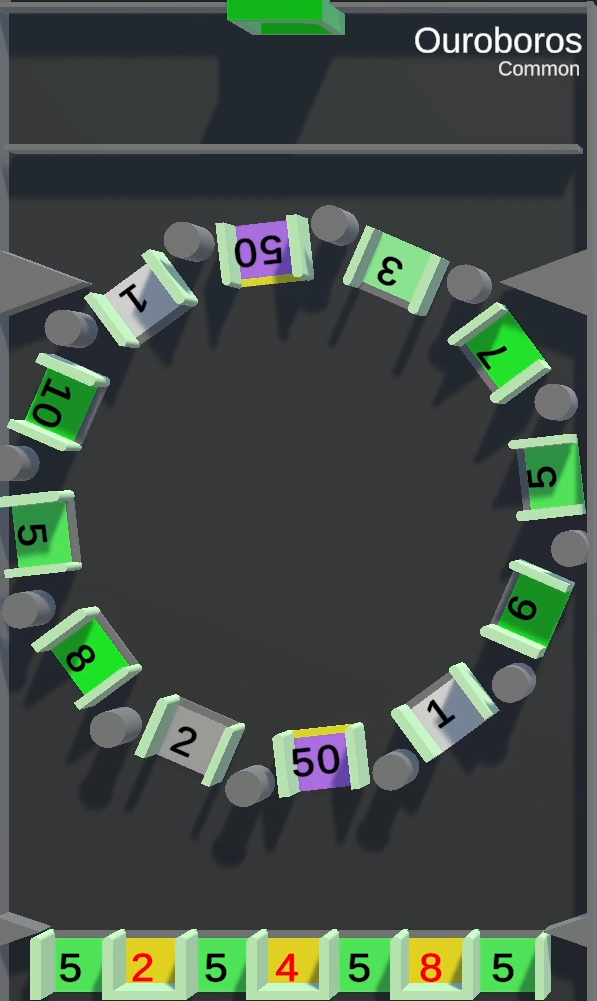
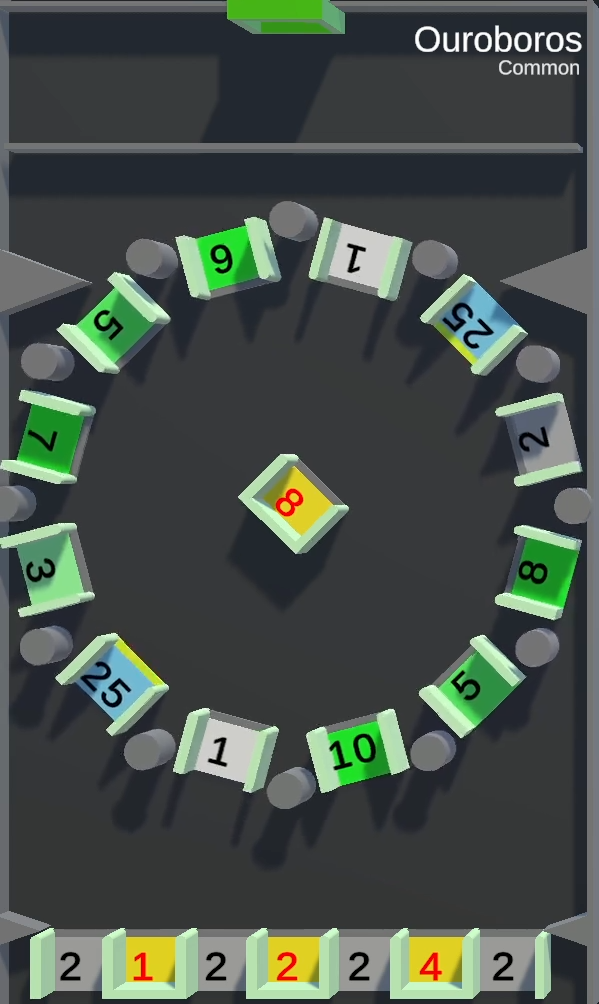
Update images for rebellion and royal execution
Fix outdated rebellion info

Fix outdated rebellion info

Rename speech bubble text color shop to text color shop

Rename speech bubble shop to bubble color shop

Add optimized gif

Revert "Update images for rebellion and royal execution"

This reverts commit 0aa57344b351ae06336b95e7e35bc5890f3c570b.

diff --git a/docs/mechanics/rebellion.md b/docs/mechanics/rebellion.md
@@ -14,9 +14,10 @@ Rebellion is a game mechanic where people can give bits to start a multiplier th
 
 ## How it works
 
-Players can use the [`!rebel [bits]`][rebel-command] command where `[bits]` is a cheer of at least 200 bits to start a rebellion. Once a rebellion starts will a circle appear around the player that started it. This circle will have certain effects on tiles and other mechanics. See the [Effects section](#effects) for details.
+Players can cheer 200 or more bits to start a rebellion. When a rebellion is started will a circle appear around the marble of the player who started it. This circle will have certain effects on tiles and other mechanics tied to the multiplier value displayed. See the [Effects section](#effects) for details.
 
-The default multiplier starts at 2, but increases by one with every addition 100 bits added. In addition is the duration of the rebellion also increased.
+The default multiplier starts at 2, but increases by one with every addition 100 bits added. In addition is the duration of the rebellion also increased.  
+The duration is 40 seconds per dollar worth of bits spent.
 
 ## Effects
 
@@ -31,7 +32,7 @@ The circle around the rebellion starter has specific effects on players, tiles a
 
 When a player bids spawn tickets to participate while in the effect area of the rebellion leader will the tickets they spent be multiplied. This will also affect the prize a player can win on a tile.
 
-Should the rebellion leader not be king and not participate will their effect area be at the spawn pipe for the queue, affecting every bid made that spawns the player in the queue itself.
+Should the rebellion leader not be king and also not be in a tile's guaranteed slots will their effect area be located at the bottom of the queue, applying the multiplier to any tickets a player bids for this tile while not already being in the guaranteed slots (Outside the effect radius).
 
 ### Point gaps
 

diff --git a/docs/twitch-minigames/epic/text-color-shop.md b/docs/twitch-minigames/epic/text-color-shop.md
@@ -1,0 +1,34 @@
+---
+description: Text Color Shop is an epic Shop tile, meaning instead of playing a game, you can purchase colored Speech bubble texts using Gold you earned as king.
+---
+
+# Text Color Shop
+
+{{ game.info(
+  rarity = "epic",
+  inputs = "[`!buy`][buy-command]",
+  timer  = "29 Seconds",
+  slots_guaranteed = "8",
+  slots_raffle     = "4",
+  added            = "v0.19 Alpha",
+  
+  img_url = "../../../assets/images/minigames/twitch/text-color-shop.png"
+) }}
+
+**Text Color Shop** is an epic Shop tile, meaning instead of playing a game, you can purchase text colors using [Gold you earned as king](../../mechanics/earning-gold.md).
+
+## Gameplay
+
+The tile is split up into three sections, each showing a preview of a speech bubble with a colored text the player can buy.
+
+The prizes for each text color is different, depending on some yet unknown factor.
+
+Once the game starts can each player use the [`!buy<number>` command][buy-command] where `<number>` is a number between 1 and 3, matching one of the displayed text colors. If the player has enough gold to purchase the text color, will their marble be moved to the text color before moving towards the bottom center of the screen with the new text color applied. The sound of an old cash register is also played as an audible confirmation of the purchase.
+
+The colors a text color can have are randomly chosen whenever the tile is being selected. Previously purchased text colors can't be re-equipped again.
+
+{{ game.history({
+  'v0.19 Alpha': [
+    'Minigame added'
+  ]
+}) }}

diff --git a/docs/twitch-minigames/common/ouroboros.md b/docs/twitch-minigames/common/ouroboros.md
@@ -16,12 +16,12 @@ description: Ouroboros is a common minigame added in version v0.18 Alpha. It's b
 
 ## Gameplay
 
-the tile contains a circle made up of gaps and pillars rotating counter clockwise. At the bottom is a row of gaps, some of which are closed.
+the tile contains a circle made up of gaps and pillars rotating counter clockwise. In the center is a closed gap slowly rotating clockwise At the bottom is a row of gaps, some of which are closed.
 
-The circle has gaps with point values 1, 2, 3, 5, 6, 7, 8, 10 and 50. Only the 1, 5 and 50 tiles exist twice, facing each other.  
-The bottom row of gaps has the values 5, -2, 5, -4, 5, -8 and 5 from left to right.
+The circle has gaps with the initial point values 1, 2, 3, 5, 6, 7, 8, 10 and 25. Only gaps with 1, 5 and 50 points exist twice in the circle, facing each other.  
+The bottom row of gaps has 2 point gaps with -1, -2 and -4 gaps put in-between from left to right.
 
-All tiles with the exception of the 50 tile won't change their value. Said tile will change their value based on the color it has while a player passes through it, meaning it can increase by any possible value.
+Only the 25 points gap will change its value whenever a player passes through it, which is indicated by the colored line of it cycling through different colors. The value it increases by is random.
 
 {{ game.history({
   'v0.18 Alpha': [

diff --git a/docs/twitch-minigames/epic/bubble-color-shop.md b/docs/twitch-minigames/epic/bubble-color-shop.md
@@ -1,21 +1,21 @@
 ---
-description: Speech bubble color Shop is an epic Shop tile, meaning instead of playing a game, you can purchase colored Speech bubbles using Gold you earned as king.
+description: Bubble color Shop is an epic Shop tile, meaning instead of playing a game, you can purchase colored Speech bubbles using Gold you earned as king.
 ---
 
-# Speech bubble Color Shop
+# Bubble Color Shop
 
 {{ game.info(
   rarity = "epic",
   inputs = "[`!buy`][buy-command]",
-  timer  = "Unknown",
+  timer  = "29 Seconds",
   slots_guaranteed = "8",
   slots_raffle     = "4",
   added            = "v0.19 Alpha",
   
-  img_url = "../../../assets/images/minigames/twitch/speech-bubble-shop.png"
+  img_url = "../../../assets/images/minigames/twitch/bubble-color-shop.png"
 ) }}
 
-**Speech bubble color Shop** is an epic Shop tile, meaning instead of playing a game, you can purchase colored Speech bubbles using [Gold you earned as king](../../mechanics/earning-gold.md).
+**Bubble color Shop** is an epic Shop tile, meaning instead of playing a game, you can purchase colored speech bubbles using [Gold you earned as king](../../mechanics/earning-gold.md).
 
 ## Gameplay
 

diff --git a/docs/changelog/cl3/v0.19-alpha.md b/docs/changelog/cl3/v0.19-alpha.md
@@ -11,7 +11,7 @@ title: v0.19 Alpha # Change this to the actual version this changelog is about.
 {{ utils.table({
     'Added': [
         'Epic tile [Speech bubble Color Shop].',
-        'Epic tile [Speech bubble text color Shop].'
+        'Epic tile [Text Color Shop].'
     ],
     'Changed': [
         '[`!lava`][lava-command] and [`!water`][water-command] now work no matter where in the message you add the bits.',

diff --git a/.snippets/games.md b/.snippets/games.md
@@ -13,7 +13,7 @@
 
 <!-- Epic -->
 [Speech bubble color Shop]: /twitch-minigames/epic/speech-bubble-color-shop/
-[Speech bubble text color Shop]: /twitch-minigames/epic/speech-bubble-text-color-shop/
+[Text Color Shop]: /twitch-minigames/epic/text-color-shop/
 [Trail Shop]: /twitch-minigames/epic/trail-shop/
 
 <!-- Legendary -->

diff --git a/docs/twitch-minigames/index.md b/docs/twitch-minigames/index.md
@@ -34,7 +34,7 @@ The following minigames are available:
 ### Epic
 
 - [Speech bubble Color Shop](epic/speech-bubble-color-shop.md)
-- [Speech bubble text color Shop](epic/speech-bubble-text-color-shop.md)
+- [Text Color Shop](epic/text-color-shop.md)
 - [Trail Shop](epic/trail-shop.md)
 
 ### Legendary
